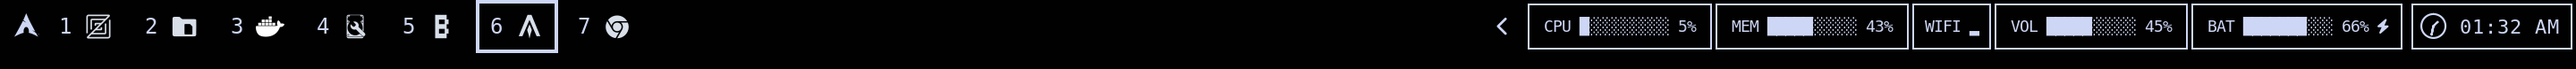
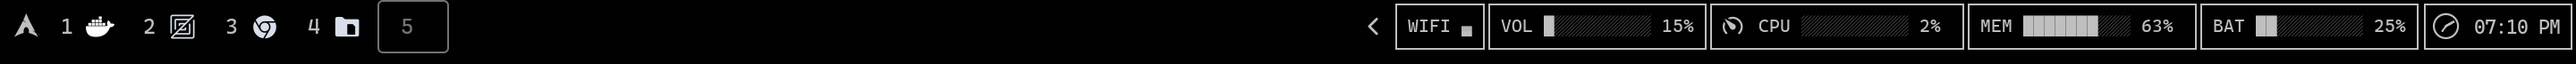
update readme and some style changes

diff --git a/style.css b/style.css
@@ -36,22 +36,25 @@
 }
 
 #workspaces button.active {
+    opacity: 1;
     border: 1px solid #bfbfbf;
     padding: 0 12px;
     min-width: 10px;
     color: #bfbfbf;
+    background: transparent;
 }
 
 #workspaces button.occupied:not(.active) {
-    border-color: #6c7086;
+    opacity: 0.7;
+
     background: #1e1e2e;
-    opacity: 0.5;
     color: #a6adc8;
+    border: 1px solid rgba(0, 0, 0, 0.3);
 }
 
 #workspaces button.empty {
     opacity: 0.6;
-    border-color: transparent;
+    background: transparent;
     color: #a6adc8;
 }
 #custom-omarchy {

diff --git a/README.md b/README.md
@@ -1,6 +1,6 @@
 # Waybar with ASCII Art Modules
 
-Minimalist Waybar configuration with ASCII art system monitoring.
+Ghostpane Theme
 
 ![Waybar Preview](assets/preview.png)
 
